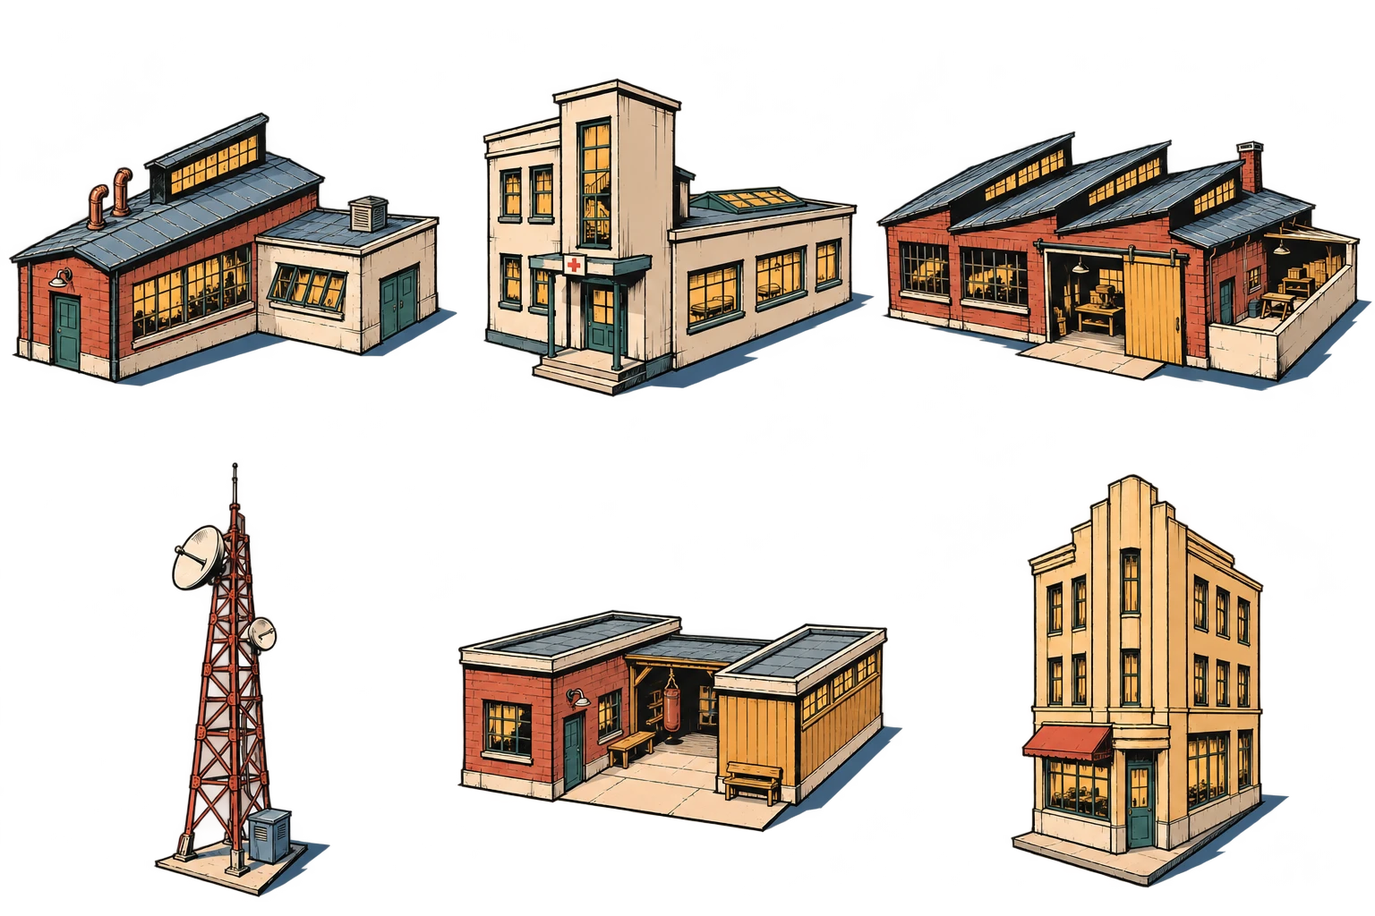
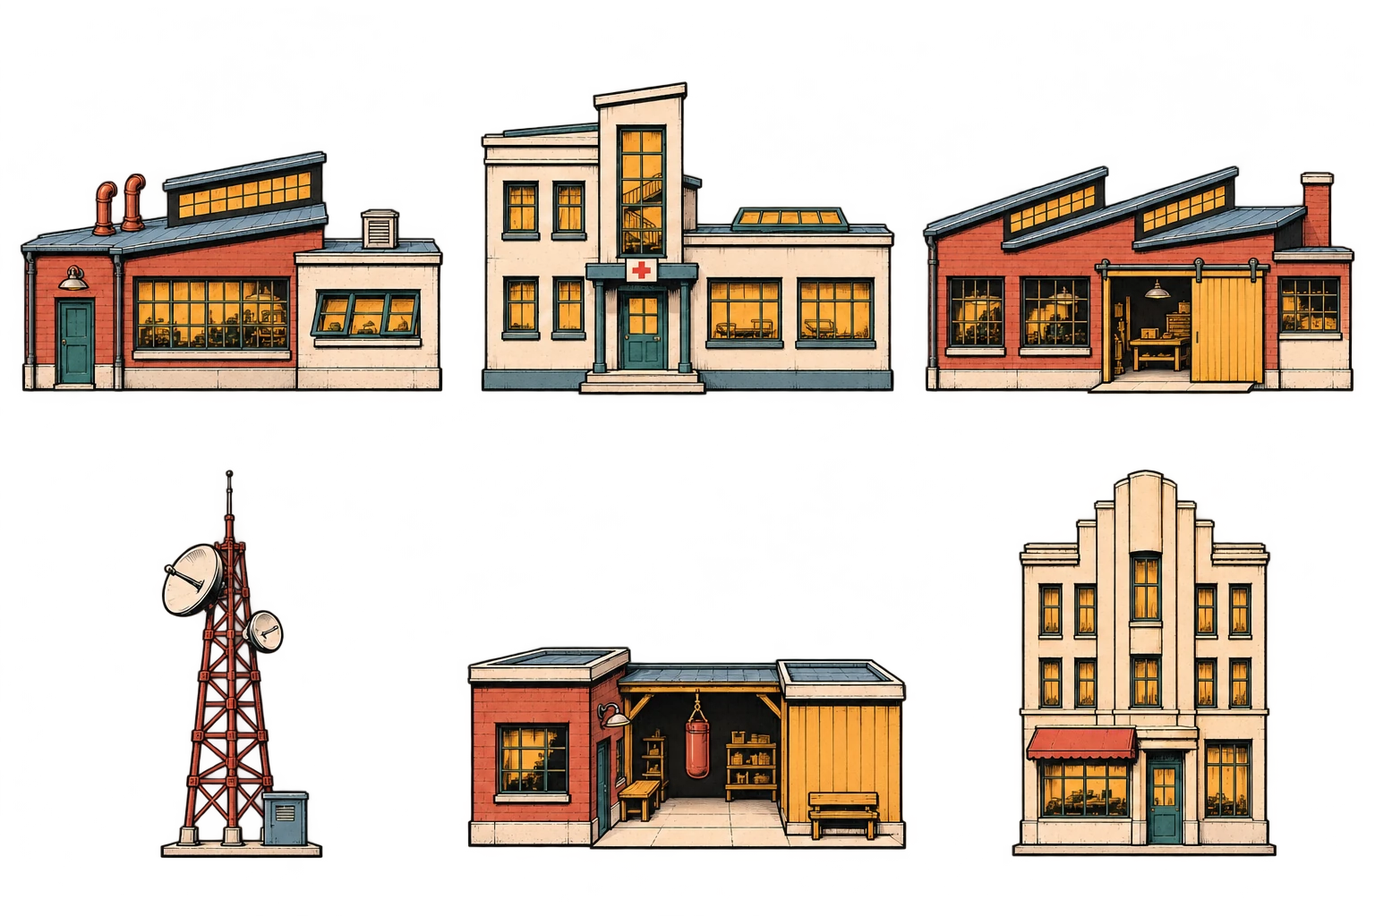
Redraw HQ buildings in parallel perspective with rear depth and an integrated Workshop complex

diff --git a/src/hq/construction.js b/src/hq/construction.js
@@ -9,44 +9,45 @@ const HQ_FAC_ART={
    Art is illustrative: these are scale anchors, not surveyed building dimensions. */
 const HQ_WORLD_WIDTH_M=112;
 const HQ_SCALE={
-  skunk:[96,2.1,'personnel door'],medbay:[77,2.1,'personnel door'],workshop:[105,3.3,'loading door'],
-  comms:[445,22,'mast'],training:[140,4,'courtyard eaves'],press:[100,2.1,'personnel door'],
-  lab:[70,2.1,'personnel door'],hangar:[124,5,'hangar opening'],reactor:[96,2.2,'transformer cabinet'],
-  sanctum:[101,2.4,'chapel door'],bunker:[121,2.2,'bunker hatch'],antivenom:[100,2.1,'greenhouse door'],
-  magnet:[70,2.1,'control hut door'],dojo:[130,3.1,'veranda eaves'],bombsq:[187,4.2,'tall bay door'],
-  optics:[89,2.1,'annex door'],jammer:[100,1.6,'equipment cabinet']
+  skunk:[92,2.1,'personnel door'],medbay:[90,2.1,'personnel door'],workshop:[117,3.3,'loading door'],
+  comms:[428,22,'mast'],training:[155,4,'courtyard eaves'],press:[82,2.1,'personnel door'],
+  lab:[96,2.1,'personnel door'],hangar:[140,5,'hangar opening'],reactor:[79,2.2,'transformer cabinet'],
+  sanctum:[82,2.4,'chapel door'],bunker:[104,2.2,'bunker hatch'],antivenom:[108,2.1,'greenhouse door'],
+  magnet:[300,7,'gantry eaves'],dojo:[195,3.1,'veranda eaves'],bombsq:[181,4.2,'tall bay door'],
+  optics:[100,2.1,'annex door'],jammer:[136,1.6,'equipment cabinet']
 };
-function hqScaledWidth(k){const a=HQ_SCALE[k];return 512*a[1]/a[0]/HQ_WORLD_WIDTH_M*100}
-/* Site anchors [x%, foot-y%, scaled cell width%], authored around access routes and clearance. */
-const HQ_SITES={
-  skunk:[31,66,hqScaledWidth('skunk')],medbay:[65,51,hqScaledWidth('medbay')],workshop:[19,66,hqScaledWidth('workshop')],
-  comms:[68,78,hqScaledWidth('comms')],training:[37,78.5,hqScaledWidth('training')],press:[23,42,hqScaledWidth('press')],
-  lab:[54,50,hqScaledWidth('lab')],hangar:[83,78,hqScaledWidth('hangar')],reactor:[90,59,hqScaledWidth('reactor')],
-  sanctum:[35,43,hqScaledWidth('sanctum')],bunker:[8,62,hqScaledWidth('bunker')],antivenom:[76,55,hqScaledWidth('antivenom')],
-  magnet:[16,80,hqScaledWidth('magnet')],dojo:[48,80.5,hqScaledWidth('dojo')],bombsq:[93,78,hqScaledWidth('bombsq')],
-  optics:[44,46,hqScaledWidth('optics')],jammer:[57,76,hqScaledWidth('jammer')]
+/* Large facilities sit on the rear terrace. One gentle distance curve scales every structure,
+   rather than giving the rear buildings miniature doors in the artwork itself. */
+function hqDistanceScale(y){return .72+Math.max(0,Math.min(44,y-40))*.28/44}
+function hqScaledWidth(k,y=84){const a=HQ_SCALE[k];return 512*a[1]/a[0]/HQ_WORLD_WIDTH_M*100*hqDistanceScale(y)}
+const HQ_SITE_POINTS={
+  skunk:[31.6,70],medbay:[66,42],workshop:[20,70],comms:[88,75],training:[39,83],press:[24,41],
+  lab:[55,44],hangar:[82,45],reactor:[93,48],sanctum:[36,43],bunker:[8,61],antivenom:[74,50],
+  magnet:[12,82],dojo:[51,84],bombsq:[79,80],optics:[43,64],jammer:[65,81]
 };
-/* An authored brick-and-glass annex, sized and drawn for this particular pair.
-   Workshop is guaranteed at campaign start. No free-floating passages between optional buildings. */
-const HQ_ANNEXES=[{a:'workshop',b:'skunk',x:26.2,y:66.3,width:6.4,depth:67,src:'workshop-annex.webp'}];
-function hqConnections(){
-  return `<div class="hq-connections" aria-hidden="true">${HQ_ANNEXES.filter(l=>S.facilities.includes(l.a)&&S.facilities.includes(l.b)).map(l=>
-    `<img class="hq-annex" data-hq-link="${l.a}:${l.b}" src="assets/headquarters/${l.src}?v=authored-annex-3" alt="" draggable="false" style="--px:${l.x}%;--py:${l.y}%;--pw:${l.width}%;z-index:${l.depth}">`
-  ).join('')}</div>`;
+const HQ_SITES=Object.fromEntries(Object.entries(HQ_SITE_POINTS).map(([k,[x,y]])=>[k,[x,y,hqScaledWidth(k,y)]]));
+/* The connected state is one complete drawing, including both buildings and their shared walls.
+   The standalone Workshop remains the starting state; no connector is pasted onto its facade. */
+const HQ_WORKSHOP_COMPLEX={x:25,y:70,width:24.5*hqDistanceScale(70)};
+function hqWorkshopJoined(selected){return S.facilities.includes('workshop')&&(S.facilities.includes('skunk')||selected==='skunk')}
+function hqWorkshopComplex(selected){
+  if(!hqWorkshopJoined(selected))return '';
+  const c=HQ_WORKSHOP_COMPLEX,preview=!S.facilities.includes('skunk');
+  return `<img class="hq-complex ${preview?'is-preview':''}" data-hq-complex="workshop:skunk" src="assets/headquarters/workshop-complex.webp?v=parallel-depth-4" alt="" aria-hidden="true" draggable="false" style="--px:${c.x}%;--py:${c.y}%;--pw:${c.width}%;z-index:69">`;
 }
 function hqFacilityArt(k,cls=''){
   const a=HQ_FAC_ART[k];if(!a)return '';
-  return `<span class="hq-fac-art ${cls}" aria-hidden="true" style="background-image:url('assets/headquarters/facilities-${a[0]}.webp?v=authored-annex-3');--ax:${a[1]%3*50}%;--ay:${Math.floor(a[1]/3)*100}%"></span>`;
+  return `<span class="hq-fac-art ${cls}" aria-hidden="true" style="background-image:url('assets/headquarters/facilities-${a[0]}.webp?v=parallel-depth-4');--ax:${a[1]%3*50}%;--ay:${Math.floor(a[1]/3)*100}%"></span>`;
 }
 function hqGrounds(selected){
   const keys=Object.keys(HQ_FAC_ART);
   return `<section class="hq-grounds" aria-label="Harbor headquarters grounds">
     <div class="hq-grounds-title"><h2>Harbor compound</h2><span>${S.facilities.filter(k=>HQ_FAC_ART[k]).length} / ${keys.length} built</span></div>
     <div class="hq-grounds-scroll" tabindex="0" aria-label="Headquarters grounds; scroll horizontally on narrow screens">
-      <div class="hq-grounds-stage">${hqConnections()}${keys.map((k,i)=>{
+      <div class="hq-grounds-stage">${hqWorkshopComplex(selected)}${keys.map((k,i)=>{
         const built=S.facilities.includes(k),active=k===selected,site=HQ_SITES[k],x=site[0],y=site[1];
         if(!built&&!active)return '';
-        return `<button type="button" class="hq-plot ${built?'is-built':'is-preview'} ${active?'is-selected':''}" style="--px:${x}%;--py:${y}%;--pw:${site[2]}%;z-index:${Math.round(y)}" data-a="facselect:${k}" aria-label="${esc(FAC[k].name)} · ${built?'built':'proposed location'}" title="${esc(FAC[k].name)}${built?' · Built':' · Preview'}">${hqFacilityArt(k)}<span class="hq-plot-label">${esc(FAC[k].name)}</span></button>`;
+        return `<button type="button" class="hq-plot ${built?'is-built':'is-preview'} ${active?'is-selected':''} ${hqWorkshopJoined(selected)&&(k==='workshop'||k==='skunk')?'is-complex-part':''}" style="--px:${x}%;--py:${y}%;--pw:${site[2]}%;z-index:${Math.round(y)}" data-a="facselect:${k}" aria-label="${esc(FAC[k].name)} · ${built?'built':'proposed location'}" title="${esc(FAC[k].name)}${built?' · Built':' · Preview'}">${hqFacilityArt(k)}<span class="hq-plot-label">${esc(FAC[k].name)}</span></button>`;
       }).join('')}</div>
     </div>
     <p class="hq-grounds-caption">Built facilities appear on the grounds. Amber marks your selection.<span class="hq-pan-hint"> Swipe to explore →</span></p>
@@ -60,7 +61,7 @@ function hqConstructionView(){
     <div class="hq-construction-heading"><div><span class="eyebrow">Headquarters</span><h2>Base development</h2></div><button class="btn sm" data-a="view:hq">Operations & workshop</button></div>
     <div class="hq-build-layout"><div class="hq-build-list" role="group" aria-label="Facility plans">${keys.map(k=>`<button type="button" class="hq-fac-choice ${k===selected?'is-selected':''}" data-a="facselect:${k}" aria-pressed="${k===selected}">${hqFacilityArt(k)}<span><b>${esc(FAC[k].name)}</b><small class="${S.facilities.includes(k)?'hq-built-state':''}">${state(k)}</small></span></button>`).join('')}</div>
     <article class="hq-fac-detail" aria-labelledby="hq-fac-name"><div class="row between"><h3 id="hq-fac-name" tabindex="-1">${esc(f.name)}</h3>${built?'<span class="tag g">Built</span>':''}</div>
-      <div class="hq-fac-showcase">${hqFacilityArt(selected)}</div><p>${esc(f.txt)}</p>
+      <div class="hq-fac-showcase">${selected==='skunk'&&S.facilities.includes('workshop')?'<img class="hq-complex-preview" src="assets/headquarters/workshop-complex.webp?v=parallel-depth-4" alt="Skunkworks wing built into the Workshop">':hqFacilityArt(selected)}</div>${selected==='skunk'&&S.facilities.includes('workshop')?'<p class="small muted">Adds an integrated Skunkworks wing to the Workshop.</p>':''}<p>${esc(f.txt)}</p>
       ${!known?`<p class="cap">Blueprint required. Unlocks from: ${unlockSources('fac:'+selected)}</p>`:!open?`<p class="cap">Opens in Arc ${f.arc}.</p>`:''}
       ${built?'<p class="hq-built-notice">✓ Operational on your grounds</p>':`<div class="hq-build-footer"><span class="cost" aria-label="Construction cost">${costHtml(f.cost)}</span><button class="btn pri" data-a="hqbuild:${selected}" ${ready?'':'disabled'}>Build ${esc(f.name)}</button></div>${known&&open&&!ready?'<p class="small muted">Gather more Tech or Intel to build this facility.</p>':''}`}
     </article></div></section>`;

diff --git a/css/headquarters.css b/css/headquarters.css
@@ -4,9 +4,11 @@
 #app .hq-grounds-title h2{font:1.35rem Bangers,cursive;margin:0;letter-spacing:.04em}
 #app .hq-grounds-title>span{font-weight:800;font-size:.8rem}
 #app .hq-grounds-scroll{overflow-x:auto;height:auto;scrollbar-color:#d4503e #ecd398;overscroll-behavior-x:contain}
-#app .hq-grounds-stage{position:relative;min-width:1000px;width:100%;height:auto;aspect-ratio:3/1;overflow:hidden;background:url('../assets/headquarters/grounds.webp?v=authored-annex-3') center/100% 100% no-repeat;isolation:isolate}
-#app .hq-connections{display:contents}
-#app .hq-annex{position:absolute;left:var(--px);top:var(--py);width:var(--pw);height:auto;transform:translate(-50%,-90%);pointer-events:none;user-select:none}
+#app .hq-grounds-stage{position:relative;min-width:1000px;width:100%;height:auto;aspect-ratio:3/1;overflow:hidden;background:url('../assets/headquarters/grounds.webp?v=parallel-depth-4') center/100% 100% no-repeat;isolation:isolate}
+#app .hq-complex{position:absolute;left:var(--px);top:var(--py);width:var(--pw);height:auto;transform:translate(-50%,-88%);pointer-events:none;user-select:none}
+#app .hq-complex.is-preview{opacity:.65;filter:sepia(.7) saturate(2) drop-shadow(0 0 2px #ffb800)}
+#app .hq-plot.is-complex-part .hq-fac-art{visibility:hidden}
+#app .hq-complex-preview{display:block;width:100%;height:auto;max-width:460px}
 #app .hq-fac-art{display:block;aspect-ratio:1;background-size:300% 200%;background-position:var(--ax) var(--ay);background-repeat:no-repeat;pointer-events:none}
 #app .hq-plot{position:absolute;left:var(--px);top:var(--py);width:var(--pw);aspect-ratio:1;transform:translate(-50%,-88%);border:0;padding:0;background:none;box-shadow:none;cursor:pointer;color:#142638}
 #app .hq-plot.is-preview .hq-fac-art{opacity:.6;filter:sepia(1) saturate(4) drop-shadow(0 0 2px #ffb800)}

diff --git a/isometric-sprites.html b/isometric-sprites.html
@@ -38,7 +38,7 @@
 <script src="src/ui/tooltips.js"></script>
 <script src="src/ui/playbook.js"></script>
 <script src="src/hq/workshop.js"></script>
-<script src="src/hq/construction.js?v=authored-annex-3"></script>
+<script src="src/hq/construction.js?v=parallel-depth-4"></script>
 <script src="src/ui/cheats.js"></script>
 <script src="src/tutorial/script.js"></script>
 <script src="src/tutorial/tutorial.js"></script>
@@ -85,7 +85,7 @@
 <link rel="stylesheet" href="css/mobile.css">
 <link rel="stylesheet" href="css/isometric.css">
 <script src="src/art/isometric.js"></script>
-<link rel="stylesheet" href="css/headquarters.css?v=authored-annex-3">
+<link rel="stylesheet" href="css/headquarters.css?v=parallel-depth-4">
 <script>
 document.getElementById('app').className='wrap sprite-gallery';
 const galleryGroups=[['Heroes',Object.keys(HERO_BASE)],['Villains',ISO_COVER_GROUPS.flat()],['Henchmen and swarm bodies',[...ISO_CAST_GROUPS.flat().filter(k=>k.startsWith('m-')), 'sting','shell']],['Civilians',['civilian','civilian2']]];

diff --git a/ui-style-lab.html b/ui-style-lab.html
@@ -109,7 +109,7 @@
   <script src="src/ui/rules-guide.js"></script>
   <script src="src/ui/playbook.js"></script>
   <script src="src/hq/workshop.js"></script>
-  <script src="src/hq/construction.js?v=authored-annex-3"></script>
+  <script src="src/hq/construction.js?v=parallel-depth-4"></script>
   <script src="src/ui/cheats.js"></script>
   <script src="src/tutorial/script.js"></script>
   <script src="src/tutorial/tutorial.js"></script>
@@ -141,7 +141,7 @@
   <script src="src/hq/hero-loadout.js"></script>
 <link rel="stylesheet" href="css/isometric.css">
 <link rel="stylesheet" href="css/heroic-ui.css?v=bright-comic-4"><script src="src/art/isometric.js"></script>
-  <link rel="stylesheet" href="css/headquarters.css?v=authored-annex-3">
+  <link rel="stylesheet" href="css/headquarters.css?v=parallel-depth-4">
   <script>
   /* Save-isolated review of the real HQ, roster, villain and battlefield screens. */
   save=()=>{};

diff --git a/isometric-lab.html b/isometric-lab.html
@@ -109,7 +109,7 @@
   <script src="src/ui/rules-guide.js"></script>
   <script src="src/ui/playbook.js"></script>
   <script src="src/hq/workshop.js"></script>
-  <script src="src/hq/construction.js?v=authored-annex-3"></script>
+  <script src="src/hq/construction.js?v=parallel-depth-4"></script>
   <script src="src/ui/cheats.js"></script>
   <script src="src/tutorial/script.js"></script>
   <script src="src/tutorial/tutorial.js"></script>
@@ -141,7 +141,7 @@
   <script src="src/hq/hero-loadout.js"></script>
 <link rel="stylesheet" href="css/isometric.css">
 <link rel="stylesheet" href="css/heroic-ui.css?v=bright-comic-4"><script src="src/art/isometric.js"></script>
-  <link rel="stylesheet" href="css/headquarters.css?v=authored-annex-3">
+  <link rel="stylesheet" href="css/headquarters.css?v=parallel-depth-4">
   <script>
   /* The art lab deliberately suppresses saves and never calls load(). */
   isoEnabled=true;

diff --git a/combat-art-lab.html b/combat-art-lab.html
@@ -108,7 +108,7 @@
   <script src="src/ui/rules-guide.js"></script>
   <script src="src/ui/playbook.js"></script>
   <script src="src/hq/workshop.js"></script>
-  <script src="src/hq/construction.js?v=authored-annex-3"></script>
+  <script src="src/hq/construction.js?v=parallel-depth-4"></script>
   <script src="src/ui/cheats.js"></script>
   <script src="src/tutorial/script.js"></script>
   <script src="src/tutorial/tutorial.js"></script>
@@ -137,7 +137,7 @@
   <script src="src/art/minis.js"></script>
   <link rel="stylesheet" href="css/hero-loadout.css">
   <link rel="stylesheet" href="css/mobile.css">
-  <link rel="stylesheet" href="css/headquarters.css?v=authored-annex-3">
+  <link rel="stylesheet" href="css/headquarters.css?v=parallel-depth-4">
   <script src="src/hq/hero-loadout.js"></script>
   <script>
   /* The art lab deliberately suppresses saves and never calls load(). */

diff --git a/portrait-gallery.html b/portrait-gallery.html
@@ -48,7 +48,7 @@
     @media(max-width:335px){.gallery-grid{grid-template-columns:minmax(0,1fr)}.gallery-image{height:220px}}
     @media(prefers-reduced-motion:reduce){.gallery-card,.gallery-card:nth-child(3n + 2),.gallery-card::before{transform:none}}
   </style>
-<link rel="stylesheet" href="css/headquarters.css?v=authored-annex-3">
+<link rel="stylesheet" href="css/headquarters.css?v=parallel-depth-4">
 </head>
 <body>
   <main class="gallery-wrap">
@@ -92,7 +92,7 @@
   <script src="src/ui/tooltips.js"></script>
   <script src="src/ui/playbook.js"></script>
   <script src="src/hq/workshop.js"></script>
-<script src="src/hq/construction.js?v=authored-annex-3"></script>
+<script src="src/hq/construction.js?v=parallel-depth-4"></script>
   <script src="src/ui/cheats.js"></script>
   <script src="src/tutorial/script.js"></script>
   <script src="src/tutorial/tutorial.js"></script>

diff --git a/index.html b/index.html
@@ -38,7 +38,7 @@
 <script src="src/ui/tooltips.js"></script>
 <script src="src/ui/playbook.js"></script>
 <script src="src/hq/workshop.js"></script>
-<script src="src/hq/construction.js?v=authored-annex-3"></script>
+<script src="src/hq/construction.js?v=parallel-depth-4"></script>
 <script src="src/ui/cheats.js"></script>
 <script src="src/tutorial/script.js"></script>
 <script src="src/tutorial/tutorial.js"></script>
@@ -86,7 +86,7 @@
 <link rel="stylesheet" href="css/isometric.css">
 <link rel="stylesheet" href="css/heroic-ui.css?v=bright-comic-4">
 <script src="src/art/isometric.js"></script>
-<link rel="stylesheet" href="css/headquarters.css?v=authored-annex-3">
+<link rel="stylesheet" href="css/headquarters.css?v=parallel-depth-4">
 <script>
 if(!load())newCampaign();
 render();

diff --git a/docs/headquarters.md b/docs/headquarters.md
@@ -1,33 +1,29 @@
 # Harbor headquarters construction
 
-Open **Build HQ** beside Operations and Roster. The grounds occupy the upper page panel below the banners, preserving the authored 3:1 panorama. Small screens pan the grounds horizontally; facility choices and the selected artwork stack below.
+Open **Build HQ** beside Operations and Roster. The grounds occupy the upper page panel below the banners on a fixed 3:1 canvas. Small screens pan the grounds horizontally; facility choices and selected artwork stack below.
 
-All 17 existing FAC keys have generated ink-drawn sprites, mapped in `src/hq/construction.js`. `HQ_SITES` supplies individual positions and sizes along the organic campus backdrop. Facilities appear from the existing `S.facilities` save field; selecting an unbuilt facility previews its proposed location. Build costs, blueprints, and effects still come from FAC. The old operations page links here, including the beginner guide.
+All 17 FAC keys have transparent hand-inked building sprites in `assets/headquarters/facilities-1.webp` through `facilities-3.webp`. Identity, materials and distinct silhouettes follow the approved comic style: variable brush contours, economical hatching, brick/ivory/teal/ochre colors and one bounded cel-shadow tone. The observatory retains a short Cassegrain reflector in a fork mount on a permanent pier.
 
-The shared masthead uses the lighthouse BLACKHARBOR artwork from concept A; resource chips and campaign information remain live text. Combat keeps its compact header.
+## Projection, depth and grounds
 
-Art direction: the approved workshop, L-shaped clinic, and slender mast concept sheet. Expressive variable-weight brush lines, economical structural detail, flat brick/ivory/teal/ochre colors, and one clearly bounded shadow tone. Believable working structures have distinct ground plans and silhouettes: sprawling low sheds, narrow towers, courtyards, hooked wings, service arrays, and utility yards. Grounds: an irregular waterfront peninsula, winding paths, retaining walls, greenery, and open clearings, with no regular grid. The approved architecture sheet is the visual reference for both the facilities and the grounds. Site positions are authored individually; widths follow the shared architectural scale. The interference station remains inland. Generated atlas files retain transparency and are compressed to WebP. The final atlas contains five facility sprites and one empty cell.
+Every sprite uses a near-frontal parallel architectural projection: upright verticals, horizontal front edges, shallow roof depth and parallel receding edges. Buildings do not turn toward a vanishing point at the center of the sheet or map. This permits placing them on either side of the panorama.
 
-Validation: `node tests/headquarters.cjs`, `node tests/comic-ui.cjs`, `node tests/investigation-ui.cjs`, `node tests/story.cjs`; browser checks cover selecting, paying for construction, built sprites, all-facility visibility, reload persistence, and a 390px viewport.
+The compact island has 112m illustrative frontage, versus its original 160m. `HQ_SCALE` calibrates each new art cell against an upright architectural feature. `HQ_SITE_POINTS` supplies individually authored foot positions. `hqDistanceScale(y)` then reduces all dimensions together from 100% in the foreground to 72% on the rear terrace. The hangar, clinic, forensic lab and power plant occupy the back; the smaller training, dojo, disposal and signal facilities frame the front. Reference sizes remain illustrative rather than surveyed dimensions.
 
-## Shared scale and authored site plan
+The backdrop has shared working courts, a winding service lane, small docks and edge planting. Sites stay inboard of the seawall, with salvage by the docks and the hangar's loading approach clear. `docs/hq-scale-plan.svg` shows full sprite cell bounds, including transparent margins.
 
-`HQ_SCALE` anchors each 512px art cell to an upright feature: ordinary doors are approximately 2.1m; workshop/loading openings and equipment use their own plausible heights. The 22m mast is scaled by its overall height. `hqScaledWidth()` converts all references into the same 112m visual frontage. These are illustrative calibration anchors, not surveyed engineering dimensions. `HQ_SITES` then places those scaled cells around the authored plan in `hq-scale-plan.svg`.
+## Workshop expansion
 
-The grounds canvas keeps a 3:1 aspect ratio so the background and sprites resize together. Narrow screens pan horizontally. The compact plan shares loading courts and medical access, keeps salvage at the docks, and places the observatory and communications mast along the lower quay.
+Workshop is guaranteed at campaign start. It displays its standalone sprite until Skunkworks is selected or built. The joined state uses **one complete drawing**, `workshop-complex.webp`, containing the warehouse, engineering wing and their continuous masonry, foundation, flashing and roof junctions. There is no separate connector overlay. The rejected `workshop-annex.webp` asset is removed.
 
-The observatory contains a short, large-aperture reflecting telescope held in a fork/yoke mount on a permanent pier, replacing the portable tripod instrument. Observatory mount/pier reference: [ESO telescope structure](https://www.eso.org/sci/facilities/paranal/telescopes/ut.html).
+Selecting an unbuilt Skunkworks previews the entire complex in amber and shows the same complete drawing in the detail panel. Construction makes it solid. Two independent facility selection targets remain over the drawing; the drawing itself does not intercept clicks. Legacy saves lacking Workshop use standalone Skunkworks art. Facility effects, costs, blueprints, unlocks and save fields remain owned by FAC and `S.facilities`.
 
-## Compact connected harbor
+## Art generation
 
-The campus frontage is now 112m instead of 160m: 30% less in each ground dimension, or about 51% less implied area. Buildings therefore fill the island more densely. The warehouse-like Workshop uses a 3.3m loading opening (27% smaller than its earlier 4.5m reference); the Sky Hangar opening is 5m instead of 6m (17% smaller). Other architectural reference sizes are preserved.
+Generated with the built-in image tool and packed as WebP with alpha preserved. The integrated complex prompt specified a modest two-bay sawtooth warehouse on the left, compact red-brick/ivory engineering wing on the right, a recessed joining wing built into both volumes, continuous wall and roof junctions, clear loading access and a near-frontal parallel projection. Each of the three atlas prompts used its prior atlas for identity and the joined complex for projection/style; equal 3×2 cells, bases near 88% height, one complete building per cell and a transparent background. The last atlas contains five facilities and one empty cell.
 
-A new ink-drawn backdrop replaces large ornamental lawns and broad roads with shared working courts, a narrow service lane, and edge planting. A generated brick-and-glass annex now joins Workshop–Skunkworks. Workshop is guaranteed at campaign start; the annex appears only once Skunkworks also exists. This replaces all four generic vector passages. The annex is a transparent sprite drawn in the same shallow isometric ink style, layered above the adjoining walls. It does not change facility costs, effects, unlocks, or saves. All 17 facilities keep separate selection targets.
+The shared lighthouse masthead remains separate from the grounds and keeps live resource chips. Combat uses its compact header.
 
-Grounds artwork prompt: edit the existing island into a compact working harbor with roughly half the land area for unchanged human scale, contiguous unadorned buildable courts, one narrow lane, two small docks, minimal edge planting, the existing upper-left HQ and distant skyline; preserve the original 3:1 ink and cel-shaded palette. Generated with the built-in image tool; production asset: `assets/headquarters/grounds.webp`.
+## Validation
 
-## Authored annex and placement correction
-
-`workshop-annex.webp` is a transparent, ink-drawn one-storey passage with red brick piers, teal window frames, amber glazing, an ivory base and a ribbed blue-gray roof. It is authored specifically for the neighboring Workshop and Skunkworks rather than stretched between arbitrary points. Prompt: draw only this short enclosed annex, matching the existing facility atlas perspective and cel shading, with complete visible walls and roof, cut-flat ends, and a transparent background. Generated with the built-in image tool; packed as WebP without changing its alpha.
-
-Positions now follow the backdrop: administration and quiet facilities on the upper terrace, laboratories above the winding lane, the workshop complex in the lower-left court, salvage at the docks, training and dojo in the inner court, and the hangar and disposal bay at the eastern service apron. The observatory, mast and front-row buildings are moved inboard of the seawall. The mast sits with the signal equipment, away from the hangar frontage. The grounds clip at the canvas edge to avoid a spurious vertical scrollbar.
+`node tests/headquarters.cjs` covers navigation, selection, costs, duplicate and unlock guards, saves, sprite mappings, distance scaling, joined previews and standalone/legacy states. `tests/layout-smoke.cjs` loads the complete complex and all 17 facilities at phone and desktop widths, checks canvas containment and independent targets, and captures the built campus. `node tests/comic-ui.cjs` covers surrounding page structure.
